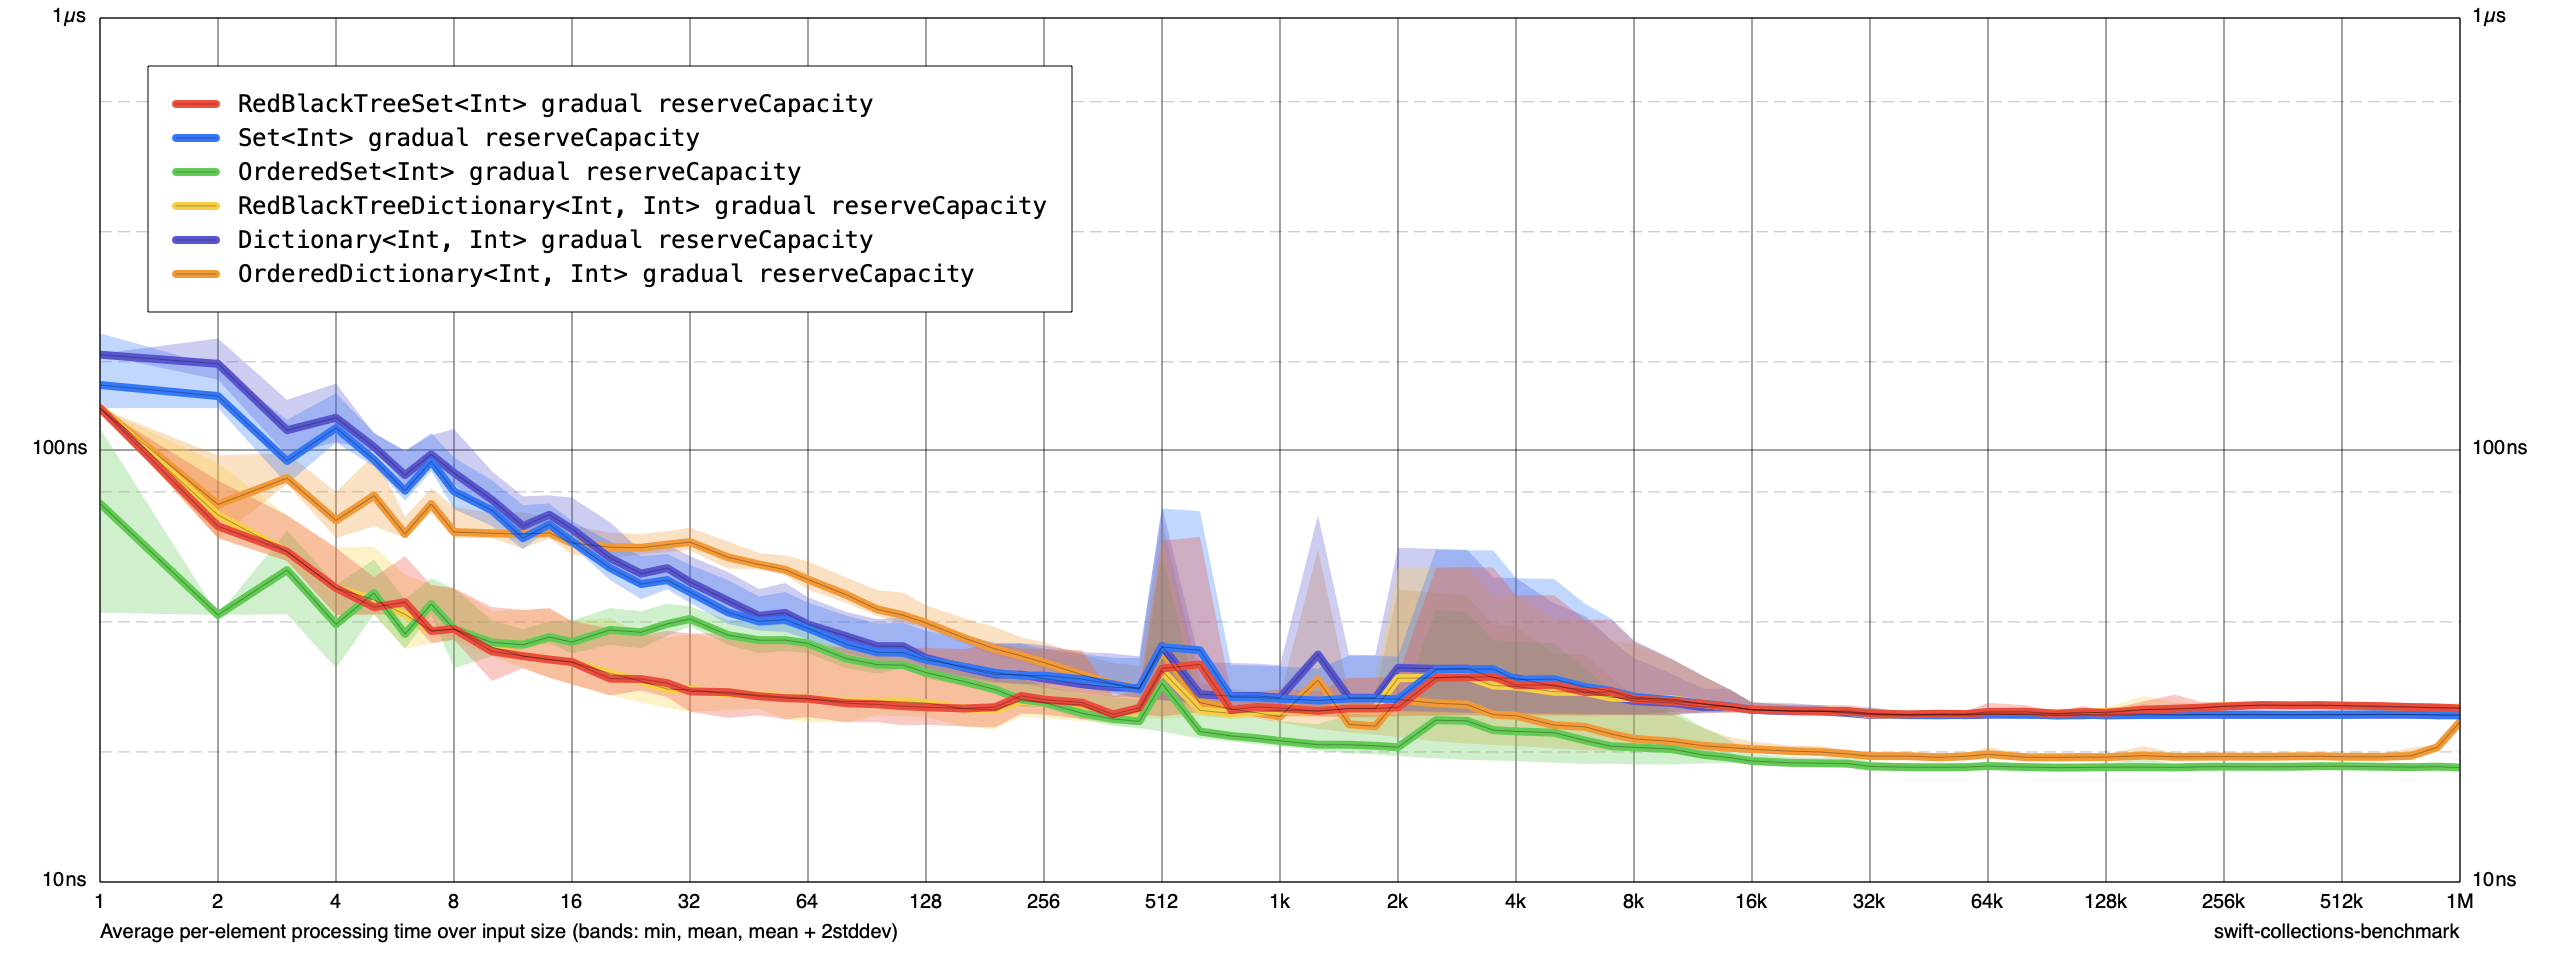
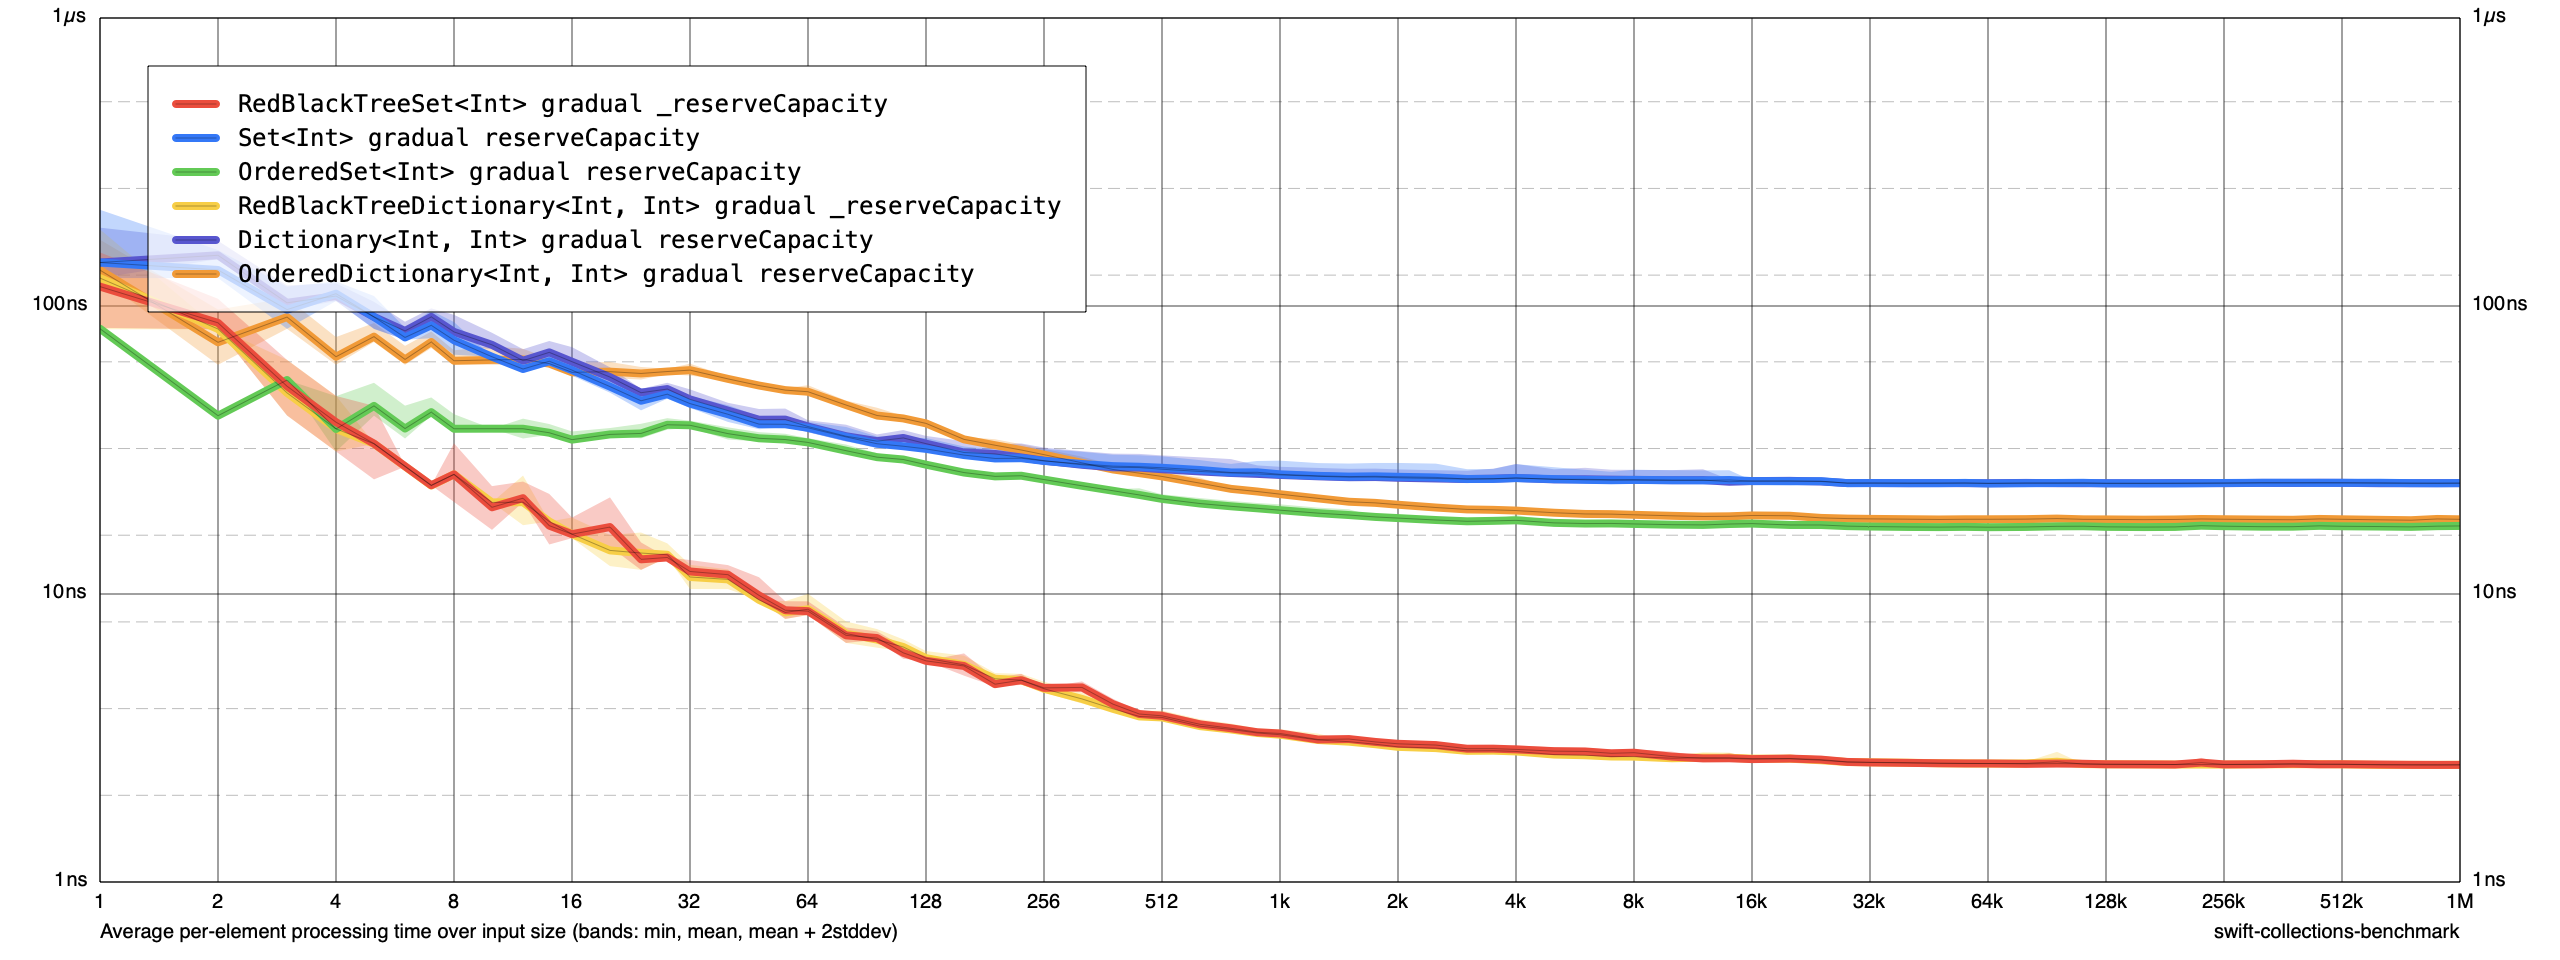
etc

diff --git a/Sources/RedBlackTreeCollections/Implements/UnsafeTreeV2/Buffer/UnsafeTreeV2+BufferHeader+CopyOnWrite.swift b/Sources/RedBlackTreeCollections/Implements/UnsafeTreeV2/Buffer/UnsafeTreeV2+BufferHeader+CopyOnWrite.swift
@@ -129,3 +129,28 @@ extension UnsafeTreeV2BufferHeader {
     copy(minimumCapacity: _requestCapacity(limit: limit).request)
   }
 }
+
+#if RESERVE_CAPACITY_BENCH
+extension UnsafeTreeV2BufferHeader {
+  
+  @inlinable
+  internal func _requestCapacity(_capacity cap: Int) -> (require: Int, request: Int) {
+    let require = cap &+ 1
+    return (require, growth(from: freshPoolCapacity, to: require))
+  }
+  
+  @usableFromInline  // 呼び出し元の命令キャッシュ圧低下を狙っている
+  internal mutating func _ensureCapacitySlow(_capacity cap: Int) {
+    let cap = _requestCapacity(_capacity: cap)
+    guard freshPoolCapacity < cap.require else {
+      return
+    }
+    grow(cap.request)
+  }
+  
+  @usableFromInline  // 呼び出し元の命令キャッシュ圧低下を狙っている
+  internal func _ensureUniqueSlow<Base>(_capacity cap: Int) -> UnsafeTreeV2<Base> {
+    copy(minimumCapacity: _requestCapacity(_capacity: cap).request)
+  }
+}
+#endif

diff --git a/Sources/RedBlackTreeCollections/Implements/UnsafeTreeV2/UnsafeTreeV2+CopyOnWrite.swift b/Sources/RedBlackTreeCollections/Implements/UnsafeTreeV2/UnsafeTreeV2+CopyOnWrite.swift
@@ -122,3 +122,35 @@ extension UnsafeTreeV2 {
     }
   }
 }
+
+
+#if RESERVE_CAPACITY_BENCH
+extension UnsafeTreeV2 {
+  
+  @inlinable @inline(__always)
+  internal mutating func ensureUniqueAndCapacity(_capacity minimumCapacity: Int) {
+    
+    if !isUnique() {
+      self = withMutableHeader { $0._ensureUniqueSlow(_capacity: minimumCapacity) }
+    } else {
+      withMutableHeader { $0._ensureCapacitySlow(_capacity: minimumCapacity) }
+    }
+  }
+}
+
+extension RedBlackTreeSet {
+  
+  @inlinable
+  public mutating func _reserveCapacity(force minimumCapacity: Int) {
+    __tree_.ensureUniqueAndCapacity(_capacity: minimumCapacity)
+  }
+}
+
+extension RedBlackTreeDictionary {
+  
+  @inlinable
+  public mutating func _reserveCapacity(force minimumCapacity: Int) {
+    __tree_.ensureUniqueAndCapacity(_capacity: minimumCapacity)
+  }
+}
+#endif

diff --git a/Sources/RedBlackTreeCollections/Implements/Protocol/BalancedSequence.swift b/Sources/RedBlackTreeCollections/Implements/Protocol/BalancedSequence.swift
@@ -167,3 +167,12 @@ public protocol BalancedView: BalancedSequence {
   extension RedBlackTreeKeyOnlyRangeView: BalancedView {}
   extension RedBlackTreeKeyValueRangeView: BalancedView {}
 #endif
+
+// MARK: -
+
+public protocol BalancedMisc {
+  associatedtype Index
+  // ABC458Dをやっていて、役には立たないが無駄に欲しくなった
+  var _rootIndex: Index { get }
+  // Indexを廃止したくてもやもやしていたが、やはり必要だなと実感したので、温存にする
+}

diff --git a/Package.swift b/Package.swift
@@ -18,6 +18,7 @@ var defines: [String] = [
   //  "ALLOCATION_DRILL" // リリース時はオフ
   //  "USE_C_MALLOC",
   //  "USE_INT128", // これはpackage traitにしたい
+  //  "RESERVE_CAPACITY_BENCH"
 ]
 
 var _settings: [SwiftSetting] =
